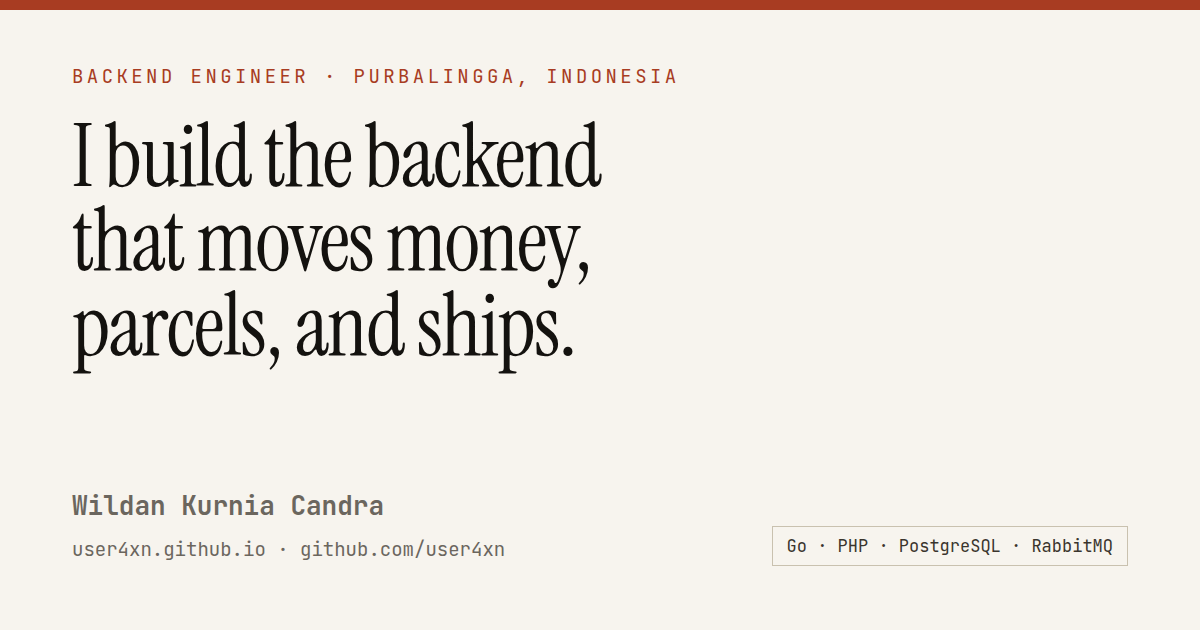
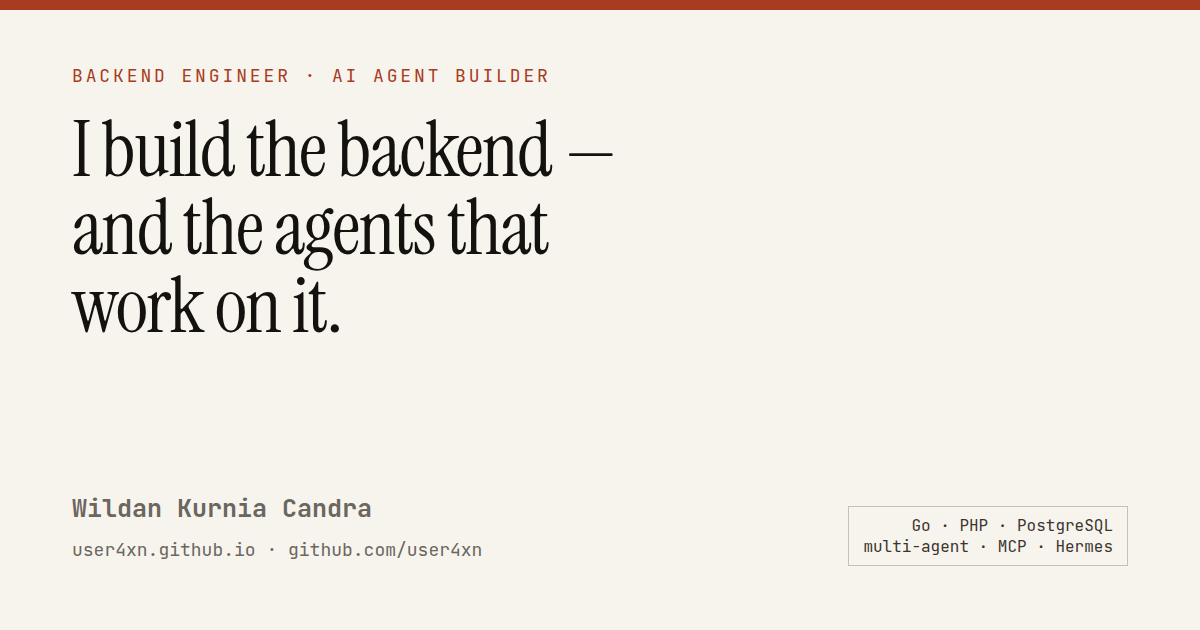
feat(v2): AI-agent section + hero positioning, scroll reveals, new OG cover

diff --git a/index.html b/index.html
@@ -24,6 +24,7 @@
 <link rel="preconnect" href="https://fonts.gstatic.com" crossorigin>
 <link rel="stylesheet" href="https://fonts.googleapis.com/css2?family=Instrument+Serif:ital@0;1&family=Inter:wght@300;400;500;600&family=JetBrains+Mono:wght@400;600&display=swap">
 <link rel="stylesheet" href="assets/style.css">
+<noscript><style>.reveal{opacity:1 !important;transform:none !important}</style></noscript>
 <script type="application/ld+json">
 {
   "@context": "https://schema.org",
@@ -45,6 +46,7 @@
   <a class="brand" href="#top"><span class="brand-dot"></span>Wildan Kurnia Candra</a>
   <nav class="nav" aria-label="Sections">
     <a href="#work" data-i18n="nav.work">Work</a>
+    <a href="#agents" data-i18n="nav.agents">Agents</a>
     <a href="#about" data-i18n="nav.about">About</a>
     <a href="#experience" data-i18n="nav.experience">Experience</a>
     <a href="#contact" data-i18n="nav.contact">Contact</a>
@@ -56,7 +58,7 @@
 
 <main id="main">
   <section class="hero" id="top">
-    <p class="eyebrow" data-i18n="hero.eyebrow">Backend engineer · Purbalingga, Indonesia</p>
+    <p class="eyebrow" data-i18n="hero.eyebrow">Backend engineer · AI agent builder · Purbalingga, Indonesia</p>
     <div class="hero-grid">
       <div class="hero-lead">
         <h1 data-i18n="hero.title">I build the backend that moves money, parcels, and ships.</h1>
@@ -66,7 +68,7 @@
         <figcaption data-i18n="hero.caption">Purbalingga, Central Java</figcaption>
       </figure>
       <div class="hero-copy">
-        <p class="lede" data-i18n="hero.lede">Four years of Go and PHP in production: shipment pricing engines, wallet ledgers, payment services, and the integrations that keep them talking to the outside world. I care about clear architecture, honest error handling, and systems that stay boring under load.</p>
+        <p class="lede" data-i18n="hero.lede">Four years of Go and PHP in production: shipment pricing engines, wallet ledgers, payment services, and the integrations that keep them talking to the outside world. Lately I also build and run my own AI agent team — separate roles, tool policies, cron jobs and monitoring — because that is how software is being written now.</p>
         <ul class="hero-links">
           <li><a class="link" href="mailto:wildan.desperado@gmail.com">wildan.desperado@gmail.com</a></li>
           <li><a class="link" href="https://github.com/user4xn/" target="_blank" rel="noopener">github.com/user4xn</a></li>
@@ -90,7 +92,7 @@
       <p class="section-sub" data-i18n="work.sub">Four systems I designed and built: self-hosted deployment tooling, a cashier PWA, a live vessel-tracking backend for a government ministry, and one showcase that never shipped.</p>
     </header>
 
-    <article class="case">
+    <article class="case reveal">
       <div class="case-media case-media-shot">
         <p class="case-tag" data-i18n="case1.tag">DASHBOARD</p>
         <img src="assets/img/shipdude.webp?v=5" width="1400" height="807" alt="ShipDude deployment dashboard showing an active container, rollback controls and CI/CD bootstrap" data-i18n-alt="case1.alt" loading="lazy">
@@ -108,7 +110,7 @@
       </div>
     </article>
 
-    <article class="case case-rev">
+    <article class="case case-rev reveal">
       <div class="case-media case-media-mock">
         <p class="case-tag" data-i18n="case2.tag">PRODUCT OVERVIEW</p>
         <img src="assets/img/danzpos.webp?v=5" width="1280" height="720" alt="Danz Pos product overview: cashier tablet, order panel, receipt preview and thermal printer" data-i18n-alt="case2.alt" loading="lazy">
@@ -128,7 +130,7 @@
       </div>
     </article>
 
-    <article class="case">
+    <article class="case reveal">
       <div class="case-media case-media-mock">
         <p class="case-tag" data-i18n="case3.tag">LIVE DASHBOARD</p>
         <img src="assets/img/simple.webp?v=8" width="1400" height="682" alt="SIMPLE harbour dashboard: vessel positions on a map with a geofence polygon, check-in table and vessel detail panel" data-i18n-alt="case3.alt">
@@ -146,7 +148,7 @@
       </div>
     </article>
 
-    <article class="case case-rev">
+    <article class="case case-rev reveal">
       <div class="case-media case-media-mock">
         <p class="case-tag" data-i18n="case4.tag">SHOWCASE · BUILT, NOT RELEASED</p>
         <img src="assets/img/lemparkoin-dashboard.webp?v=9" width="1400" height="678" alt="Lemparkoin dashboard: coin wallet balance, incoming and outgoing totals and a recent donors table" data-i18n-alt="case4.alt" loading="lazy">
@@ -166,7 +168,41 @@
     </article>
   </section>
 
-  <section class="about" id="about">
+  <section class="agents" id="agents">
+    <div class="agents-inner">
+      <p class="eyebrow eyebrow-light" data-i18n="agents.eyebrow">Agent engineering</p>
+      <h2 data-i18n="agents.title">I run my own AI agent team.</h2>
+      <div class="agents-grid">
+        <div class="agents-copy">
+          <p data-i18n="agents.p1">Not one chatbot with a long prompt — a small office of specialised agents, each with its own profile, tools and permissions, working on real repositories and real servers. It writes code, reviews it, verifies it, and reports back over Telegram while I am away from the keyboard.</p>
+          <ul class="agents-points">
+            <li data-i18n="agents.b1"><strong>Roles, not a monolith.</strong> A chief of staff routes work; a PM scopes it; an engineer builds it; a QA agent verifies it in a separate context so nothing self-approves.</li>
+            <li data-i18n="agents.b2"><strong>Policy-level permissions.</strong> Sub-agents get read-only Git access, a build guard blocks memory-killing commands on a 2 GB host, and releases stay a human decision.</li>
+            <li data-i18n="agents.b3"><strong>Observability, because agents lie.</strong> Live activity wall, cron digests, memory watchdog and log tails — the work is only "done" when the evidence is on screen.</li>
+          </ul>
+          <p class="agents-stack" data-i18n="agents.stack">Hermes Agent · MCP tools · Telegram gateway · SQLite state · cron · systemd · self-hosted VPS</p>
+        </div>
+        <figure class="terminal" aria-label="Agent roster console output">
+          <div class="terminal-bar"><i></i><i></i><i></i><em>hermes office — status</em></div>
+<pre class="terminal-body"><span class="t-dim">$</span> hermes office status
+
+  <span class="t-key">snowy</span>    chief of staff   <span class="t-on">● online</span>   routes work, reviews PRs
+  <span class="t-key">poki</span>     product manager  <span class="t-on">● online</span>   scope, priority, status
+  <span class="t-key">beluga</span>   engineer         <span class="t-on">● online</span>   builds, tests, branches
+  <span class="t-key">zero</span>     qa               <span class="t-on">● online</span>   verifies, reports severity
+
+  <span class="t-dim">gateway</span>   telegram · 4 bots
+  <span class="t-dim">guards</span>    read-only git for sub-agents · build guard
+  <span class="t-dim">monitor</span>   live activity wall · cron digests
+  <span class="t-dim">host</span>      2 vCPU / 1.9 GB VPS, self-managed
+
+<span class="t-dim">$</span> <span class="cursor">▍</span></pre>
+        </figure>
+      </div>
+    </div>
+  </section>
+
+  <section class="about reveal" id="about">
     <div class="about-grid">
       <h2 data-i18n="about.title">About</h2>
       <div class="about-copy">
@@ -182,7 +218,7 @@
     </div>
   </section>
 
-  <section class="experience" id="experience">
+  <section class="experience reveal" id="experience">
     <header class="section-head">
       <h2 data-i18n="exp.title">Experience</h2>
     </header>
@@ -214,7 +250,7 @@
     </ol>
   </section>
 
-  <section class="skills" id="skills">
+  <section class="skills reveal" id="skills">
     <header class="section-head">
       <h2 data-i18n="skills.title">Toolkit</h2>
     </header>
@@ -238,7 +274,7 @@
     </div>
   </section>
 
-  <section class="contact" id="contact">
+  <section class="contact reveal" id="contact">
     <h2 data-i18n="contact.title">Let's talk</h2>
     <p class="contact-sub" data-i18n="contact.sub">Backend work, integrations, or a system that needs untangling — send a note.</p>
     <a class="contact-mail" href="mailto:wildan.desperado@gmail.com">wildan.desperado@gmail.com</a>

diff --git a/assets/app.js b/assets/app.js
@@ -9,13 +9,14 @@
     "a11y.skip": "Lompat ke konten",
 
     "nav.work": "Karya",
+    "nav.agents": "Agen",
     "nav.about": "Tentang",
     "nav.experience": "Pengalaman",
     "nav.contact": "Kontak",
 
-    "hero.eyebrow": "Backend engineer · Purbalingga, Indonesia",
+    "hero.eyebrow": "Backend engineer · pembangun AI agent · Purbalingga, Indonesia",
     "hero.title": "Saya membangun backend yang menggerakkan uang, paket, dan kapal.",
-    "hero.lede": "Empat tahun menulis Go dan PHP untuk sistem produksi: mesin harga ongkir, ledger saldo, layanan pembayaran, dan integrasi yang menghubungkannya ke dunia luar. Saya peduli pada arsitektur yang jelas, penanganan error yang jujur, dan sistem yang tetap membosankan saat beban naik.",
+    "hero.lede": "Empat tahun menulis Go dan PHP untuk sistem produksi: mesin harga ongkir, ledger saldo, layanan pembayaran, dan integrasi yang menghubungkannya ke dunia luar. Belakangan saya juga membangun dan menjalankan tim AI agent sendiri — peran terpisah, kebijakan tool, cron, dan monitoring — karena begitulah software ditulis sekarang.",
     "hero.cv": "Unduh CV (PDF)",
     "hero.alt": "Foto Wildan Kurnia Candra",
     "hero.caption": "Purbalingga, Jawa Tengah",
@@ -24,6 +25,14 @@
     "metric.carriers": "integrasi kurir & logistik",
     "metric.platforms": "platform dibangun end to end",
     "metric.awards": "finalis LKS tingkat provinsi",
+
+    "agents.eyebrow": "Agent engineering",
+    "agents.title": "Saya membangun dan menjalankan tim AI agent sendiri.",
+    "agents.p1": "Bukan satu chatbot dengan prompt panjang — tapi kantor kecil berisi agent terspesialisasi, masing-masing punya profil, tool, dan izin sendiri, mengerjakan repo dan server sungguhan. Dia menulis kode, me-review, memverifikasi, dan melapor lewat Telegram saat saya jauh dari keyboard.",
+    "agents.b1": "<strong>Peran, bukan monolit.</strong> Chief of staff membagi kerja; PM menyusun scope; engineer membangun; agent QA memverifikasi di context terpisah supaya tidak ada yang menyetujui hasil kerjanya sendiri.",
+    "agents.b2": "<strong>Izin di level kebijakan.</strong> Sub-agent hanya dapat akses Git read-only, build guard memblokir perintah yang menghabiskan RAM di host 2 GB, dan rilis tetap keputusan manusia.",
+    "agents.b3": "<strong>Observability, karena agent bisa berbohong.</strong> Live activity wall, digest cron, memory watchdog, dan tail log — pekerjaan baru dianggap selesai kalau buktinya terlihat di layar.",
+    "agents.stack": "Hermes Agent · tool MCP · gateway Telegram · state SQLite · cron · systemd · VPS self-hosted",
 
     "work.title": "Karya pilihan",
     "work.sub": "Empat sistem yang saya rancang dan bangun: tooling deploy self-hosted, aplikasi kasir PWA, backend pelacakan kapal untuk kementerian, dan satu showcase yang tidak sempat rilis.",
@@ -136,9 +145,34 @@
     return nav.indexOf("id") === 0 ? "id" : "en";
   }
 
+  function initReveal() {
+    var items = document.querySelectorAll(".reveal");
+    if (!items.length) return;
+    if (!("IntersectionObserver" in window)) {
+      items.forEach(function (el) { el.classList.add("is-in"); });
+      return;
+    }
+    var io = new IntersectionObserver(function (entries) {
+      entries.forEach(function (entry) {
+        if (entry.isIntersecting) {
+          entry.target.classList.add("is-in");
+          io.unobserve(entry.target);
+        }
+      });
+    }, { rootMargin: "0px 0px -12% 0px", threshold: 0.05 });
+    items.forEach(function (el) { io.observe(el); });
+    // elemen yang sudah terlihat saat load jangan menunggu scroll
+    requestAnimationFrame(function () {
+      items.forEach(function (el) {
+        if (el.getBoundingClientRect().top < window.innerHeight * 0.9) el.classList.add("is-in");
+      });
+    });
+  }
+
   document.addEventListener("DOMContentLoaded", function () {
     captureEnglish();
     apply(preferred());
+    initReveal();
 
     var btn = document.getElementById("langBtn");
     if (btn) {

diff --git a/assets/style.css b/assets/style.css
@@ -536,10 +536,94 @@ p:last-child { margin-bottom: 0; }
 }
 .footer p { margin: 0; }
 
+/* ------------------------------ agents band --------------------- */
+
+.agents {
+  max-width: none !important;
+  background: #14120f;
+  color: #f2ede4;
+  padding-top: clamp(64px, 9vw, 118px) !important;
+  padding-bottom: clamp(64px, 9vw, 118px) !important;
+}
+.agents-inner { max-width: var(--maxw); margin: 0 auto; }
+.eyebrow-light { color: #d98a68; }
+.agents h2 { color: #f7f3ea; max-width: 22ch; }
+.agents-grid {
+  display: grid;
+  grid-template-columns: 1.05fr .95fr;
+  gap: clamp(28px, 4vw, 64px);
+  margin-top: clamp(26px, 4vw, 44px);
+  align-items: start;
+}
+.agents-copy p { color: #cfc7b8; max-width: 62ch; }
+.agents-points { list-style: none; padding: 0; margin: 26px 0; display: grid; gap: 14px; }
+.agents-points li { position: relative; padding-left: 20px; color: #bdb5a5; font-size: .96rem; }
+.agents-points li::before { content: "—"; position: absolute; left: 0; color: #b4462a; }
+.agents-points strong { color: #f2ede4; font-weight: 600; }
+.agents-stack {
+  font-family: var(--mono);
+  font-size: 11.5px;
+  letter-spacing: .04em;
+  color: #8d8574;
+  border-top: 1px solid #2b2721;
+  padding-top: 16px;
+  margin-bottom: 0;
+}
+
+.terminal {
+  margin: 0;
+  background: #0b0d10;
+  border: 1px solid #2b2721;
+  border-radius: 8px;
+  overflow: hidden;
+  box-shadow: 0 24px 60px -34px rgba(0, 0, 0, .85);
+}
+.terminal-bar {
+  display: flex;
+  align-items: center;
+  gap: 6px;
+  padding: 9px 12px;
+  background: #111418;
+  border-bottom: 1px solid #1e2228;
+}
+.terminal-bar i { width: 9px; height: 9px; border-radius: 50%; background: #33383f; }
+.terminal-bar i:nth-child(1) { background: #e05a45; }
+.terminal-bar i:nth-child(2) { background: #d9a441; }
+.terminal-bar i:nth-child(3) { background: #4a9e63; }
+.terminal-bar em {
+  margin-left: auto;
+  font-family: var(--mono);
+  font-style: normal;
+  font-size: 11px;
+  letter-spacing: .08em;
+  color: #6b7280;
+}
+.terminal-body {
+  margin: 0;
+  padding: 16px 18px 20px;
+  font-family: var(--mono);
+  font-size: 12.2px;
+  line-height: 1.78;
+  color: #d6d3cb;
+  white-space: pre-wrap;
+  overflow-x: auto;
+}
+.t-dim { color: #6f7681; }
+.t-key { color: #e8e2d6; font-weight: 600; }
+.t-on { color: #5fbf7f; }
+.cursor { color: #5fbf7f; animation: blink 1.1s steps(1) infinite; }
+@keyframes blink { 50% { opacity: 0; } }
+
+/* reveal on scroll */
+.reveal { opacity: 0; transform: translateY(16px); transition: opacity .65s ease, transform .65s ease; }
+.reveal.is-in { opacity: 1; transform: none; }
+.case-media img { transition: transform .55s ease; }
+.case:hover .case-media img { transform: scale(1.012); }
+
 /* ----------------------------- responsive ----------------------- */
 
 @media (max-width: 900px) {
-  .hero-grid, .case, .about-grid { grid-template-columns: 1fr; }
+  .hero-grid, .case, .about-grid, .agents-grid { grid-template-columns: 1fr; }
   .case-rev .case-media { order: 0; }
   .metrics { grid-template-columns: repeat(2, 1fr); }
   .metric:nth-child(2) { border-right: 0; }
